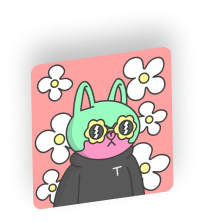
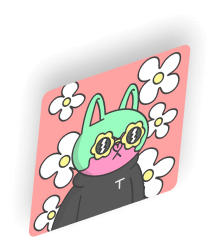
fix(Hero): fix Hero section imgaes of left side

Changed region(s): [[0.1188, 0.1622, 0.8911, 0.973], [0.3861, 0.7838, 0.4158, 0.8108]]

diff --git a/src/components/home/hero/hero.tsx b/src/components/home/hero/hero.tsx
@@ -65,31 +65,32 @@ export function Hero() {
 
 
 
-      {leftImages.map((img, idx) => (
-        <motion.div
-          key={`left-${idx}`}
-          initial={{ opacity: 0, y: 80 }}
-          animate={{ opacity: 1, y: 0 }}
-          transition={{ duration: 1, delay: idx * 0.1 }}
-          style={{ y }}
-          className={`absolute hidden md:block z-10 ${idx === 0
-            ? 'top-8 left-0 w-20 h-20 lg:w-36 lg:h-36'
-            : idx === 1
-              ? 'top-24 -left-12 w-34 h-44 lg:w-58 lg:h-78'
-              : idx === 2
-                ? 'top-44 left-40 w-24 h-24 lg:w-48 lg:h-48'
-                : idx === 3
-                  ? 'top-[22rem] left-2 w-24 h-24 lg:w-48 lg:h-48'
-                  : idx === 4
-                    ? 'top-[22rem] left-40 w-24 h-24 lg:w-48 lg:h-48'
-                    : idx === 5
-                      ? 'top-[34rem] left-8 w-24 h-24 lg:w-48 lg:h-48'
-                      : 'top-[34rem] left-44 w-24 h-24 lg:w-48 lg:h-48'
-            }`}
-        >
-          <Image src={img} alt={`Left ${idx + 1}`} className="w-full h-full" />
-        </motion.div>
-      ))}
+    {leftImages.map((img, idx) => (
+  <motion.div
+    key={`left-${idx}`}
+    initial={{ opacity: 0, y: 80 }}
+    animate={{ opacity: 1, y: 0 }}
+    transition={{ duration: 1, delay: idx * 0.1 }}
+    style={{ y }}
+    className={`absolute hidden md:block z-10 ${
+      idx === 0
+        ? '-top-6 -left-15 w-20 h-20 lg:w-48 lg:h-36'
+        : idx === 1
+        ? 'top-18 -left-15 z-20 w-28 h-32 lg:w-56 lg:h-76'
+        : idx === 2
+        ? 'top-12 left-20  w-24 h-24 lg:w-56 lg:h-64'
+        : idx === 3
+        ? 'top-88  -left-26 w-24 h-24 lg:w-56 lg:h-64'
+        : idx === 4
+        ? 'top-68 left-18 w-24 h-24 lg:w-56 lg:h-76'
+        : idx === 5
+        ? 'top-[33rem] -left-20 w-24 h-24 lg:w-56 lg:h-58'
+        : 'top-[32rem] left-16 w-24 h-24 lg:w-48 lg:h-56'
+    }`}
+  >
+    <Image src={img} alt={`Left ${idx + 1}`} className="w-full h-full" />
+  </motion.div>
+))}
 
       {rightImages.map((img, idx) => (
         <motion.div
@@ -101,16 +102,16 @@ export function Hero() {
           className={`absolute hidden md:block z-10 ${idx === 0
             ? '-top-2 -right-5 w-20 h-20 lg:w-48 lg:h-36'
             : idx === 2
-              ? 'top-16 -right-15 w-28 h-32 lg:w-58 lg:h-96'
+              ? 'top-16 -right-15 w-28 h-32 lg:w-56 lg:h-96'
               : idx === 1
-                ? 'top-24 right-20 w-24 h-24 lg:w-58 lg:h-64'
+                ? 'top-24 right-20 w-24 h-24 lg:w-56 lg:h-64'
                 : idx === 4
-                  ? 'top-[24.5rem] -right-26 w-24 h-24 lg:w-58 lg:h-64'
+                  ? 'top-[24.5rem] -right-26 w-24 h-24 lg:w-56 lg:h-64'
                   : idx === 3
-                    ? 'top-70 right-20 w-24 h-24 lg:w-58 lg:h-84'
+                    ? 'top-70 right-20 w-24 h-24 lg:w-56 lg:h-84'
                     : idx === 6
-                      ? 'top-[36rem] -right-20 w-24 h-24 lg:w-58 lg:h-58'
-                      : 'top-[35rem] right-24 w-24 h-24 lg:w-48 lg:h-58'
+                      ? 'top-[36rem] -right-20 w-24 h-24 lg:w-56 lg:h-56'
+                      : 'top-[35rem] right-24 w-24 h-24 lg:w-48 lg:h-56'
             }`}
         >
           <Image src={img} alt={`Right ${idx + 1}`} className="w-full h-full" />
